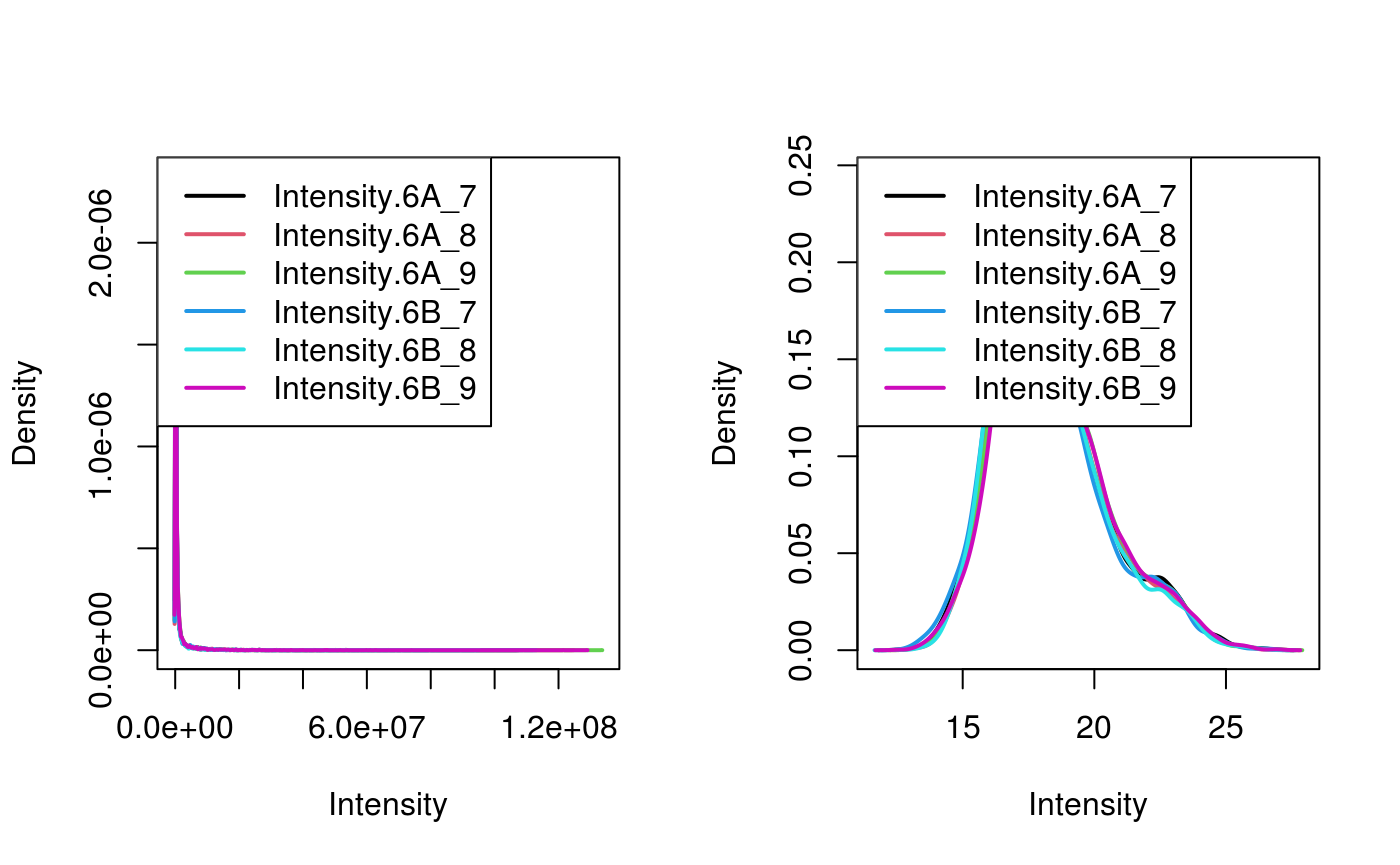
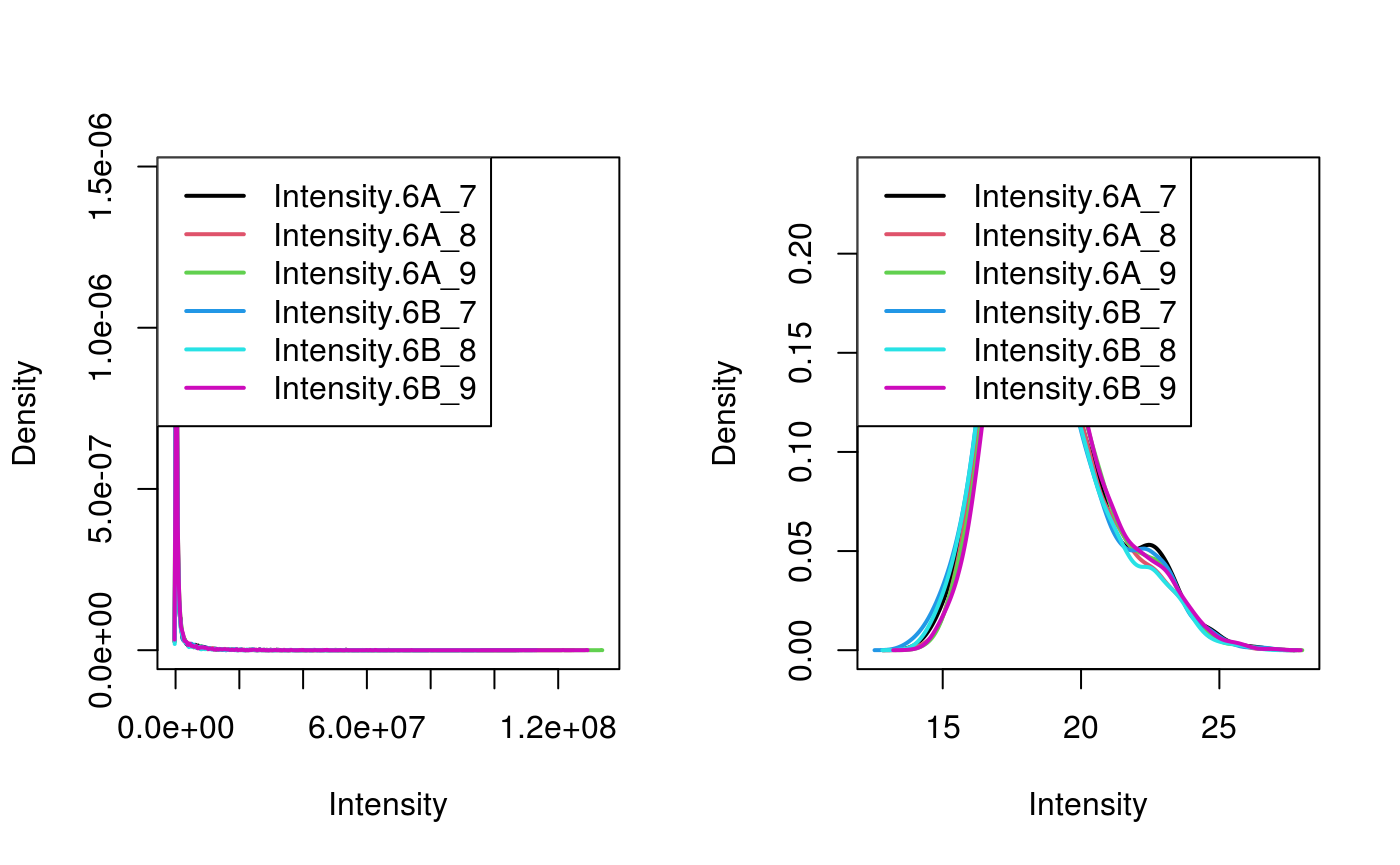
Deploy rformassspectrometry/Features to github.com/rformassspectrometry/Features.git:gh-pages

diff --git a/articles/Processing.html b/articles/Processing.html
@@ -115,7 +115,7 @@ document.addEventListener("DOMContentLoaded", function() {
 <h2 class="hasAnchor">
 <a href="#reading-data-as-features" class="anchor"></a>Reading data as <code>Features</code>
 </h2>
-<p>We are going to use a subset of the CPTAC study 6 containing conditions A and B. The peptide-level data, as processed by MaxQuant is available in the <code>msdata</code> package:</p>
+<p>We are going to use a subset of the CPTAC study 6 containing conditions A and B <span class="citation">(Paulovich et al. 2010)</span>. The peptide-level data, as processed by MaxQuant <span class="citation">(Cox and Mann 2008)</span> is available in the <code>msdata</code> package:</p>
 <div class="sourceCode" id="cb1"><pre class="sourceCode r"><code class="sourceCode r"><a class="sourceLine" id="cb1-1" data-line-number="1"><span class="kw"><a href="https://rdrr.io/r/base/basename.html">basename</a></span>(f &lt;-<span class="st"> </span>msdata<span class="op">::</span><span class="kw"><a href="https://rdrr.io/pkg/msdata/man/proteomics.html">quant</a></span>(<span class="dt">pattern =</span> <span class="st">"cptac"</span>, <span class="dt">full.names =</span> <span class="ot">TRUE</span>))</a></code></pre></div>
 <pre><code>## [1] "cptac_a_b_peptides.txt"</code></pre>
 <p>From the names of the columns, we see that the quantitative columns, starting with <code>"Intensity."</code> (note the space!) are at positions 56 to 61.</p>
@@ -232,12 +232,12 @@ document.addEventListener("DOMContentLoaded", function() {
 <li>there are 4051 peptides with 0 missing values, 989 with a single missing values, … and 3014 peptides composed of only missing values;</li>
 <li>the range of missing values in the 6 samples is comparable and ranges between 4651 and 5470.</li>
 </ul>
-<p>In this dataset, we have such a high number of peptides without any data because the 6 samples are a subset of a larger dataset, and these peptides happened to be absent in groups A and B. Below, we use <code>filterNA</code> to remove these peptides. By setting <code>pNA</code> to 0.9, we allow peptides that have up to 90% of missing values, including in this case those that have only one value (i.e 5/6 percent of missing values).</p>
-<div class="sourceCode" id="cb21"><pre class="sourceCode r"><code class="sourceCode r"><a class="sourceLine" id="cb21-1" data-line-number="1">cptac &lt;-<span class="st"> </span><span class="kw"><a href="../reference/Features-missing-data.html">filterNA</a></span>(cptac, <span class="dt">pNA =</span> <span class="fl">.9</span>)</a>
+<p>In this dataset, we have such a high number of peptides without any data because the 6 samples are a subset of a larger dataset, and these peptides happened to be absent in groups A and B. Below, we use <code>filterNA</code> to remove all the peptides that contain one or more missing values by using <code>pNA = 0</code> (which also is the default value).</p>
+<div class="sourceCode" id="cb21"><pre class="sourceCode r"><code class="sourceCode r"><a class="sourceLine" id="cb21-1" data-line-number="1">cptac &lt;-<span class="st"> </span><span class="kw"><a href="../reference/Features-missing-data.html">filterNA</a></span>(cptac, <span class="dt">pNA =</span> <span class="dv">0</span>)</a>
 <a class="sourceLine" id="cb21-2" data-line-number="2">cptac</a></code></pre></div>
 <pre><code>## A instance of class Features containing
-##  [1] peptides: SummarizedExperiment with 8343 rows and 6 columns</code></pre>
-<p>If we wanted to remove all peptides that have one or more missing values, we could simply use the default value of <code>pNA = 0</code>.</p>
+##  [1] peptides: SummarizedExperiment with 4051 rows and 6 columns</code></pre>
+<p>I we wanted to keep peptides that have up to 90% of missing values, corresponsing in this case to those that have only one value (i.e 5/6 percent of missing values), we could have set <code>pNA</code> to 0.9.</p>
 </div>
 <div id="data-transformation" class="section level2">
 <h2 class="hasAnchor">
@@ -249,8 +249,8 @@ document.addEventListener("DOMContentLoaded", function() {
 <a class="sourceLine" id="cb23-3" data-line-number="3">                  <span class="dt">name =</span> <span class="st">"peptides_log"</span>)</a>
 <a class="sourceLine" id="cb23-4" data-line-number="4">cptac</a></code></pre></div>
 <pre><code>## A instance of class Features containing
-##  [1] peptides: SummarizedExperiment with 8343 rows and 6 columns 
-##  [2] peptides_log: SummarizedExperiment with 8343 rows and 6 columns</code></pre>
+##  [1] peptides: SummarizedExperiment with 4051 rows and 6 columns 
+##  [2] peptides_log: SummarizedExperiment with 4051 rows and 6 columns</code></pre>
 <div class="sourceCode" id="cb25"><pre class="sourceCode r"><code class="sourceCode r"><a class="sourceLine" id="cb25-1" data-line-number="1"><span class="kw"><a href="https://rdrr.io/r/graphics/par.html">par</a></span>(<span class="dt">mfrow =</span> <span class="kw"><a href="https://rdrr.io/r/base/c.html">c</a></span>(<span class="dv">1</span>, <span class="dv">2</span>))</a>
 <a class="sourceLine" id="cb25-2" data-line-number="2">limma<span class="op">::</span><span class="kw"><a href="https://rdrr.io/pkg/limma/man/plotDensities.html">plotDensities</a></span>(<span class="kw">assay</span>(cptac[[<span class="dv">1</span>]]))</a>
 <a class="sourceLine" id="cb25-3" data-line-number="3">limma<span class="op">::</span><span class="kw"><a href="https://rdrr.io/pkg/limma/man/plotDensities.html">plotDensities</a></span>(<span class="kw">assay</span>(cptac[[<span class="dv">2</span>]]))</a></code></pre></div>
@@ -269,9 +269,9 @@ Quantitative data in its original scale (left) and log2-transformed (right).
 <a class="sourceLine" id="cb26-3" data-line-number="3">                  <span class="dt">name =</span> <span class="st">"peptides_norm"</span>)</a>
 <a class="sourceLine" id="cb26-4" data-line-number="4">cptac</a></code></pre></div>
 <pre><code>## A instance of class Features containing
-##  [1] peptides: SummarizedExperiment with 8343 rows and 6 columns 
-##  [2] peptides_log: SummarizedExperiment with 8343 rows and 6 columns 
-##  [3] peptides_norm: SummarizedExperiment with 8343 rows and 6 columns</code></pre>
+##  [1] peptides: SummarizedExperiment with 4051 rows and 6 columns 
+##  [2] peptides_log: SummarizedExperiment with 4051 rows and 6 columns 
+##  [3] peptides_norm: SummarizedExperiment with 4051 rows and 6 columns</code></pre>
 <div class="sourceCode" id="cb28"><pre class="sourceCode r"><code class="sourceCode r"><a class="sourceLine" id="cb28-1" data-line-number="1"><span class="kw"><a href="https://rdrr.io/r/graphics/par.html">par</a></span>(<span class="dt">mfrow =</span> <span class="kw"><a href="https://rdrr.io/r/base/c.html">c</a></span>(<span class="dv">1</span>, <span class="dv">2</span>))</a>
 <a class="sourceLine" id="cb28-2" data-line-number="2">limma<span class="op">::</span><span class="kw"><a href="https://rdrr.io/pkg/limma/man/plotDensities.html">plotDensities</a></span>(<span class="kw">assay</span>(cptac[[<span class="st">"peptides_log"</span>]]))</a>
 <a class="sourceLine" id="cb28-3" data-line-number="3">limma<span class="op">::</span><span class="kw"><a href="https://rdrr.io/pkg/limma/man/plotDensities.html">plotDensities</a></span>(<span class="kw">assay</span>(cptac[[<span class="st">"peptides_norm"</span>]]))</a></code></pre></div>
@@ -284,15 +284,134 @@ Distribution of log2 peptide intensities before (left) and after (right) quantil
 <div id="feature-aggregation" class="section level2">
 <h2 class="hasAnchor">
 <a href="#feature-aggregation" class="anchor"></a>Feature aggregation</h2>
-<p>At this stage, it is possible to directly use the peptide-level intensities to perform a statistical analysis, or aggregate the peptide-level data into protein intensities, and perform the differential expression analysis at the protein level.</p>
-<p>To aggregate feature data, we can use the <code>aggregateFeature</code> function that takes the following inputs:</p>
+<p>At this stage, it is possible to directly use the peptide-level intensities to perform a statistical analysis <span class="citation">(Goeminne, Gevaert, and Clement 2016)</span>, or aggregate the peptide-level data into protein intensities, and perform the differential expression analysis at the protein level.</p>
+<p>To aggregate feature data, we can use the <code>aggregateFeatures</code> function that takes the following inputs:</p>
+<ul>
+<li>the name of the <code>Features</code> instance that contains the peptide quantitation data - <code>"cptac"</code> in our example;</li>
+<li>
+<strong><code>i</code></strong>: the name or index of the assay that contains the (normalised) peptide quantitation data - <code>"peptides_norm"</code> in our case;</li>
+<li>
+<strong><code>fcol</code></strong>: the feature variable (in the assay above) to be used to define what peptides to aggregate - <code>"Proteins"</code> here, given that we want to aggregate all peptides that belong to one protein (group);</li>
+<li>
+<strong><code>name</code></strong>: the name of the new aggregates assay - <code>"proteins"</code> in this case;</li>
+<li>and finally <strong><code>fun</code></strong>, the function that will compute this aggregation - we will be using the default value, namely <code>robustSummary</code> <span class="citation">(Sticker et al. 2019)</span>.</li>
+</ul>
+<div class="sourceCode" id="cb29"><pre class="sourceCode r"><code class="sourceCode r"><a class="sourceLine" id="cb29-1" data-line-number="1">cptac &lt;-<span class="st"> </span><span class="kw"><a href="../reference/Features-aggregate.html">aggregateFeatures</a></span>(cptac, <span class="dt">i =</span> <span class="st">"peptides_norm"</span>, <span class="dt">fcol =</span> <span class="st">"Proteins"</span>, <span class="dt">name =</span> <span class="st">"proteins"</span>)</a>
+<a class="sourceLine" id="cb29-2" data-line-number="2">cptac</a></code></pre></div>
+<pre><code>## A instance of class Features containing
+##  [1] peptides: SummarizedExperiment with 4051 rows and 6 columns 
+##  [2] peptides_log: SummarizedExperiment with 4051 rows and 6 columns 
+##  [3] peptides_norm: SummarizedExperiment with 4051 rows and 6 columns 
+##  [4] proteins: SummarizedExperiment with 1125 rows and 6 columns</code></pre>
+<p>We obtain a final 1125 quantified proteins in the new <code>proteins</code> assay. Below, we display the quantitation data for the first 6 proteins and their respective variables. The latter shown that number of peptides that were using during the aggregation step (<code>.n</code> column).</p>
+<div class="sourceCode" id="cb31"><pre class="sourceCode r"><code class="sourceCode r"><a class="sourceLine" id="cb31-1" data-line-number="1"><span class="kw"><a href="https://rdrr.io/r/utils/head.html">head</a></span>(<span class="kw">assay</span>(cptac[[<span class="st">"proteins"</span>]]))</a></code></pre></div>
+<pre><code>##                                      Intensity.6A_7 Intensity.6A_8
+## P00918ups|CAH2_HUMAN_UPS                   17.30380       16.89828
+## P01008ups|ANT3_HUMAN_UPS;CON__P41361       16.89434       15.98417
+## P01127ups|PDGFB_HUMAN_UPS                  16.52022       16.81015
+## P02144ups|MYG_HUMAN_UPS                    16.88925       16.46800
+## P02753ups|RETBP_HUMAN_UPS                  17.84540       16.65529
+## P02787ups|TRFE_HUMAN_UPS                   16.82634       16.88629
+##                                      Intensity.6A_9 Intensity.6B_7
+## P00918ups|CAH2_HUMAN_UPS                   16.63440       18.28533
+## P01008ups|ANT3_HUMAN_UPS;CON__P41361       16.30053       16.82910
+## P01127ups|PDGFB_HUMAN_UPS                  16.83638       18.20670
+## P02144ups|MYG_HUMAN_UPS                    17.27137       17.87518
+## P02753ups|RETBP_HUMAN_UPS                  16.49888       18.39589
+## P02787ups|TRFE_HUMAN_UPS                   16.34263       18.14808
+##                                      Intensity.6B_8 Intensity.6B_9
+## P00918ups|CAH2_HUMAN_UPS                   18.57310       18.47074
+## P01008ups|ANT3_HUMAN_UPS;CON__P41361       16.72590       16.44177
+## P01127ups|PDGFB_HUMAN_UPS                  18.79476       17.14791
+## P02144ups|MYG_HUMAN_UPS                    18.58260       18.29267
+## P02753ups|RETBP_HUMAN_UPS                  17.73285       18.13718
+## P02787ups|TRFE_HUMAN_UPS                   18.52184       18.15342</code></pre>
+<div class="sourceCode" id="cb33"><pre class="sourceCode r"><code class="sourceCode r"><a class="sourceLine" id="cb33-1" data-line-number="1"><span class="kw">rowData</span>(cptac[[<span class="st">"proteins"</span>]])</a></code></pre></div>
+<pre><code>## DataFrame with 1125 rows and 3 columns
+##                                           Proteins Leading.razor.protein
+##                                        &lt;character&gt;           &lt;character&gt;
+## P00918ups|CAH2_HUMAN_UPS             P00918ups|...         P00918ups|...
+## P01008ups|ANT3_HUMAN_UPS;CON__P41361 P01008ups|...         P01008ups|...
+## P01127ups|PDGFB_HUMAN_UPS            P01127ups|...         P01127ups|...
+## P02144ups|MYG_HUMAN_UPS              P02144ups|...         P02144ups|...
+## P02753ups|RETBP_HUMAN_UPS            P02753ups|...         P02753ups|...
+## ...                                            ...                   ...
+## sp|Q99207|NOP14_YEAST                sp|Q99207|...         sp|Q99207|...
+## sp|Q99216|PNO1_YEAST                 sp|Q99216|...         sp|Q99216|...
+## sp|Q99257|MEX67_YEAST                sp|Q99257|...         sp|Q99257|...
+## sp|Q99258|RIB3_YEAST                 sp|Q99258|...         sp|Q99258|...
+## sp|Q99383|HRP1_YEAST                 sp|Q99383|...         sp|Q99383|...
+##                                             .n
+##                                      &lt;integer&gt;
+## P00918ups|CAH2_HUMAN_UPS                     1
+## P01008ups|ANT3_HUMAN_UPS;CON__P41361         1
+## P01127ups|PDGFB_HUMAN_UPS                    1
+## P02144ups|MYG_HUMAN_UPS                      1
+## P02753ups|RETBP_HUMAN_UPS                    2
+## ...                                        ...
+## sp|Q99207|NOP14_YEAST                        1
+## sp|Q99216|PNO1_YEAST                         1
+## sp|Q99257|MEX67_YEAST                        2
+## sp|Q99258|RIB3_YEAST                         2
+## sp|Q99383|HRP1_YEAST                         2</code></pre>
+<p>We can get a quick overview of this <code>.n</code> variable by computing the table below, that shows us that we have 405 proteins that are based on a single peptides, 230 that are based on two, 119 that are based on three, … and a single protein that is the results of aggregating 44 peptides.</p>
+<div class="sourceCode" id="cb35"><pre class="sourceCode r"><code class="sourceCode r"><a class="sourceLine" id="cb35-1" data-line-number="1"><span class="kw"><a href="https://rdrr.io/r/base/table.html">table</a></span>(<span class="kw">rowData</span>(cptac[[<span class="st">"proteins"</span>]])<span class="op">$</span>.n)</a></code></pre></div>
+<pre><code>## 
+##   1   2   3   4   5   6   7   8   9  10  11  12  13  14  15  16  17  18  19  20 
+## 405 230 119  84  64  53  37  29  24  24  13   9   4   3   3   7   3   1   1   1 
+##  21  22  23  24  25  30  31  33  44 
+##   1   2   2   1   1   1   1   1   1</code></pre>
+<p>Let’s choose <code>P02787ups|TRFE_HUMAN_UPS</code> and visualise its expression pattern in the 2 groups at the protein and peptide level.</p>
+<div class="sourceCode" id="cb37"><pre class="sourceCode r"><code class="sourceCode r"><a class="sourceLine" id="cb37-1" data-line-number="1"><span class="kw"><a href="https://rdrr.io/r/base/library.html">library</a></span>(<span class="st">"ggplot2"</span>)</a>
+<a class="sourceLine" id="cb37-2" data-line-number="2"><span class="kw"><a href="https://rdrr.io/r/base/library.html">library</a></span>(<span class="st">"dplyr"</span>)</a></code></pre></div>
+<pre><code>## 
+## Attaching package: 'dplyr'</code></pre>
+<pre><code>## The following object is masked from 'package:matrixStats':
+## 
+##     count</code></pre>
+<pre><code>## The following object is masked from 'package:Biobase':
+## 
+##     combine</code></pre>
+<pre><code>## The following objects are masked from 'package:GenomicRanges':
+## 
+##     intersect, setdiff, union</code></pre>
+<pre><code>## The following object is masked from 'package:GenomeInfoDb':
+## 
+##     intersect</code></pre>
+<pre><code>## The following objects are masked from 'package:IRanges':
+## 
+##     collapse, desc, intersect, setdiff, slice, union</code></pre>
+<pre><code>## The following objects are masked from 'package:S4Vectors':
+## 
+##     first, intersect, rename, setdiff, setequal, union</code></pre>
+<pre><code>## The following objects are masked from 'package:BiocGenerics':
+## 
+##     combine, intersect, setdiff, union</code></pre>
+<pre><code>## The following objects are masked from 'package:stats':
+## 
+##     filter, lag</code></pre>
+<pre><code>## The following objects are masked from 'package:base':
+## 
+##     intersect, setdiff, setequal, union</code></pre>
+<div class="sourceCode" id="cb48"><pre class="sourceCode r"><code class="sourceCode r"><a class="sourceLine" id="cb48-1" data-line-number="1"><span class="kw">longFormat</span>(cptac[<span class="st">"P02787ups|TRFE_HUMAN_UPS"</span>, ]) <span class="op">%&gt;%</span></a>
+<a class="sourceLine" id="cb48-2" data-line-number="2"><span class="st">    </span><span class="kw"><a href="https://rdrr.io/r/base/as.data.frame.html">as.data.frame</a></span>() <span class="op">%&gt;%</span></a>
+<a class="sourceLine" id="cb48-3" data-line-number="3"><span class="st">    </span><span class="kw"><a href="https://dplyr.tidyverse.org/reference/mutate.html">mutate</a></span>(<span class="dt">group =</span> <span class="kw"><a href="https://rdrr.io/r/base/ifelse.html">ifelse</a></span>(<span class="kw"><a href="https://rdrr.io/r/base/grep.html">grepl</a></span>(<span class="st">"A"</span>, colname), <span class="st">"A"</span>, <span class="st">"B"</span>)) <span class="op">%&gt;%</span></a>
+<a class="sourceLine" id="cb48-4" data-line-number="4"><span class="st">    </span><span class="kw"><a href="https://dplyr.tidyverse.org/reference/mutate.html">mutate</a></span>(<span class="dt">sample =</span> <span class="kw"><a href="https://rdrr.io/r/base/grep.html">sub</a></span>(<span class="st">"Intensity</span><span class="ch">\\</span><span class="st">."</span>, <span class="st">""</span>, colname)) <span class="op">%&gt;%</span></a>
+<a class="sourceLine" id="cb48-5" data-line-number="5"><span class="st">    </span><span class="kw"><a href="https://ggplot2.tidyverse.org/reference/ggplot.html">ggplot</a></span>(<span class="kw"><a href="https://ggplot2.tidyverse.org/reference/aes.html">aes</a></span>(<span class="dt">x =</span> sample, <span class="dt">y =</span> value, <span class="dt">colour =</span> group)) <span class="op">+</span></a>
+<a class="sourceLine" id="cb48-6" data-line-number="6"><span class="st">    </span><span class="kw"><a href="https://ggplot2.tidyverse.org/reference/geom_point.html">geom_point</a></span>() <span class="op">+</span></a>
+<a class="sourceLine" id="cb48-7" data-line-number="7"><span class="st">    </span><span class="kw"><a href="https://ggplot2.tidyverse.org/reference/facet_grid.html">facet_grid</a></span>(<span class="op">~</span><span class="st"> </span>assay)</a></code></pre></div>
+<pre><code>## harmonizing input:
+##   removing 12 sampleMap rows not in names(experiments)</code></pre>
+<pre><code>## harmonizing input:
+##   removing 12 sampleMap rows not in names(experiments)</code></pre>
+<p><img src="Processing_files/figure-html/unnamed-chunk-16-1.png" width="700"></p>
 </div>
 <div id="todo" class="section level2">
 <h2 class="hasAnchor">
 <a href="#todo" class="anchor"></a>TODO</h2>
 <ul>
-<li>visualisation</li>
-<li>imputation</li>
+<li>Improve on data visualisation.</li>
+<li>Section on imputation.</li>
 </ul>
 </div>
 </div>
@@ -320,33 +439,53 @@ Distribution of log2 peptide intensities before (left) and after (right) quantil
 ## [8] methods   base     
 ## 
 ## other attached packages:
-##  [1] magrittr_1.5                Features_0.2.0             
-##  [3] MultiAssayExperiment_1.13.3 SummarizedExperiment_1.17.0
-##  [5] DelayedArray_0.13.0         BiocParallel_1.21.0        
-##  [7] matrixStats_0.55.0          Biobase_2.47.1             
-##  [9] GenomicRanges_1.39.1        GenomeInfoDb_1.23.0        
-## [11] IRanges_2.21.2              S4Vectors_0.25.6           
-## [13] BiocGenerics_0.33.0         BiocStyle_2.15.2           
+##  [1] dplyr_0.8.3                 ggplot2_3.2.1              
+##  [3] magrittr_1.5                Features_0.2.0             
+##  [5] MultiAssayExperiment_1.13.3 SummarizedExperiment_1.17.0
+##  [7] DelayedArray_0.13.0         BiocParallel_1.21.0        
+##  [9] matrixStats_0.55.0          Biobase_2.47.1             
+## [11] GenomicRanges_1.39.1        GenomeInfoDb_1.23.0        
+## [13] IRanges_2.21.2              S4Vectors_0.25.6           
+## [15] BiocGenerics_0.33.0         BiocStyle_2.15.2           
 ## 
 ## loaded via a namespace (and not attached):
-##  [1] Rcpp_1.0.3              msdata_0.27.0           highr_0.8              
-##  [4] compiler_4.0.0          BiocManager_1.30.10     XVector_0.27.0         
-##  [7] ProtGenerics_1.19.2     bitops_1.0-6            tools_4.0.0            
-## [10] zlibbioc_1.33.0         digest_0.6.23           preprocessCore_1.49.0  
-## [13] lattice_0.20-38         evaluate_0.14           memoise_1.1.0          
-## [16] rlang_0.4.2             Matrix_1.2-18           yaml_2.2.0             
-## [19] pkgdown_1.4.1           xfun_0.11               GenomeInfoDbData_1.2.2 
-## [22] stringr_1.4.0           knitr_1.26              MsCoreUtils_0.0.4      
-## [25] desc_1.2.0              fs_1.3.1                grid_4.0.0             
-## [28] rprojroot_1.3-2         R6_2.4.1                rmarkdown_2.0          
-## [31] bookdown_0.16           limma_3.43.0            AnnotationFilter_1.11.0
-## [34] backports_1.1.5         htmltools_0.4.0         MASS_7.3-51.4          
-## [37] assertthat_0.2.1        stringi_1.4.3           lazyeval_0.2.2         
-## [40] RCurl_1.95-4.12         crayon_1.3.4</code></pre>
+##  [1] Rcpp_1.0.3              msdata_0.27.0           lattice_0.20-38        
+##  [4] assertthat_0.2.1        rprojroot_1.3-2         digest_0.6.23          
+##  [7] plyr_1.8.5              R6_2.4.1                backports_1.1.5        
+## [10] evaluate_0.14           highr_0.8               pillar_1.4.2           
+## [13] zlibbioc_1.33.0         rlang_0.4.2             lazyeval_0.2.2         
+## [16] Matrix_1.2-18           preprocessCore_1.49.0   rmarkdown_2.0          
+## [19] pkgdown_1.4.1           labeling_0.3            desc_1.2.0             
+## [22] stringr_1.4.0           ProtGenerics_1.19.2     RCurl_1.95-4.12        
+## [25] munsell_0.5.0           compiler_4.0.0          xfun_0.11              
+## [28] pkgconfig_2.0.3         htmltools_0.4.0         tidyselect_0.2.5       
+## [31] tibble_2.1.3            GenomeInfoDbData_1.2.2  bookdown_0.16          
+## [34] crayon_1.3.4            withr_2.1.2             MASS_7.3-51.4          
+## [37] bitops_1.0-6            grid_4.0.0              gtable_0.3.0           
+## [40] lifecycle_0.1.0         AnnotationFilter_1.11.0 MsCoreUtils_0.0.4      
+## [43] scales_1.1.0            stringi_1.4.3           farver_2.0.1           
+## [46] reshape2_1.4.3          XVector_0.27.0          fs_1.3.1               
+## [49] limma_3.43.0            tools_4.0.0             glue_1.3.1             
+## [52] purrr_0.3.3             yaml_2.2.0              colorspace_1.4-1       
+## [55] BiocManager_1.30.10     memoise_1.1.0           knitr_1.26</code></pre>
 </div>
 <div id="references" class="section level1 unnumbered">
 <h1 class="hasAnchor">
 <a href="#references" class="anchor"></a>References</h1>
+<div id="refs" class="references">
+<div id="ref-Cox:2008">
+<p>Cox, J, and M Mann. 2008. “MaxQuant Enables High Peptide Identification Rates, Individualized P.p.b.-range Mass Accuracies and Proteome-Wide Protein Quantification.” <em>Nat Biotechnol</em> 26 (12): 1367–72. <a href="https://doi.org/10.1038/nbt.1511" class="uri">https://doi.org/10.1038/nbt.1511</a>.</p>
+</div>
+<div id="ref-Goeminne:2016">
+<p>Goeminne, L J, K Gevaert, and L Clement. 2016. “Peptide-Level Robust Ridge Regression Improves Estimation, Sensitivity, and Specificity in Data-Dependent Quantitative Label-Free Shotgun Proteomics.” <em>Mol Cell Proteomics</em> 15 (2): 657–68. <a href="https://doi.org/10.1074/mcp.M115.055897" class="uri">https://doi.org/10.1074/mcp.M115.055897</a>.</p>
+</div>
+<div id="ref-Paulovich:2010">
+<p>Paulovich, Amanda G, Dean Billheimer, Amy-Joan L Ham, Lorenzo Vega-Montoto, Paul A Rudnick, David L Tabb, Pei Wang, et al. 2010. “Interlaboratory Study Characterizing a Yeast Performance Standard for Benchmarking LC-MS Platform Performance.” <em>Mol. Cell. Proteomics</em> 9 (2): 242–54.</p>
+</div>
+<div id="ref-Sticker:2019">
+<p>Sticker, Adriaan, Ludger Goeminne, Lennart Martens, and Lieven Clement. 2019. “Robust Summarization and Inference in Proteome-Wide Label-Free Quantification.” <em>bioRxiv</em>. Cold Spring Harbor Laboratory. <a href="https://doi.org/10.1101/668863" class="uri">https://doi.org/10.1101/668863</a>.</p>
+</div>
+</div>
 </div>
   </div>
 
